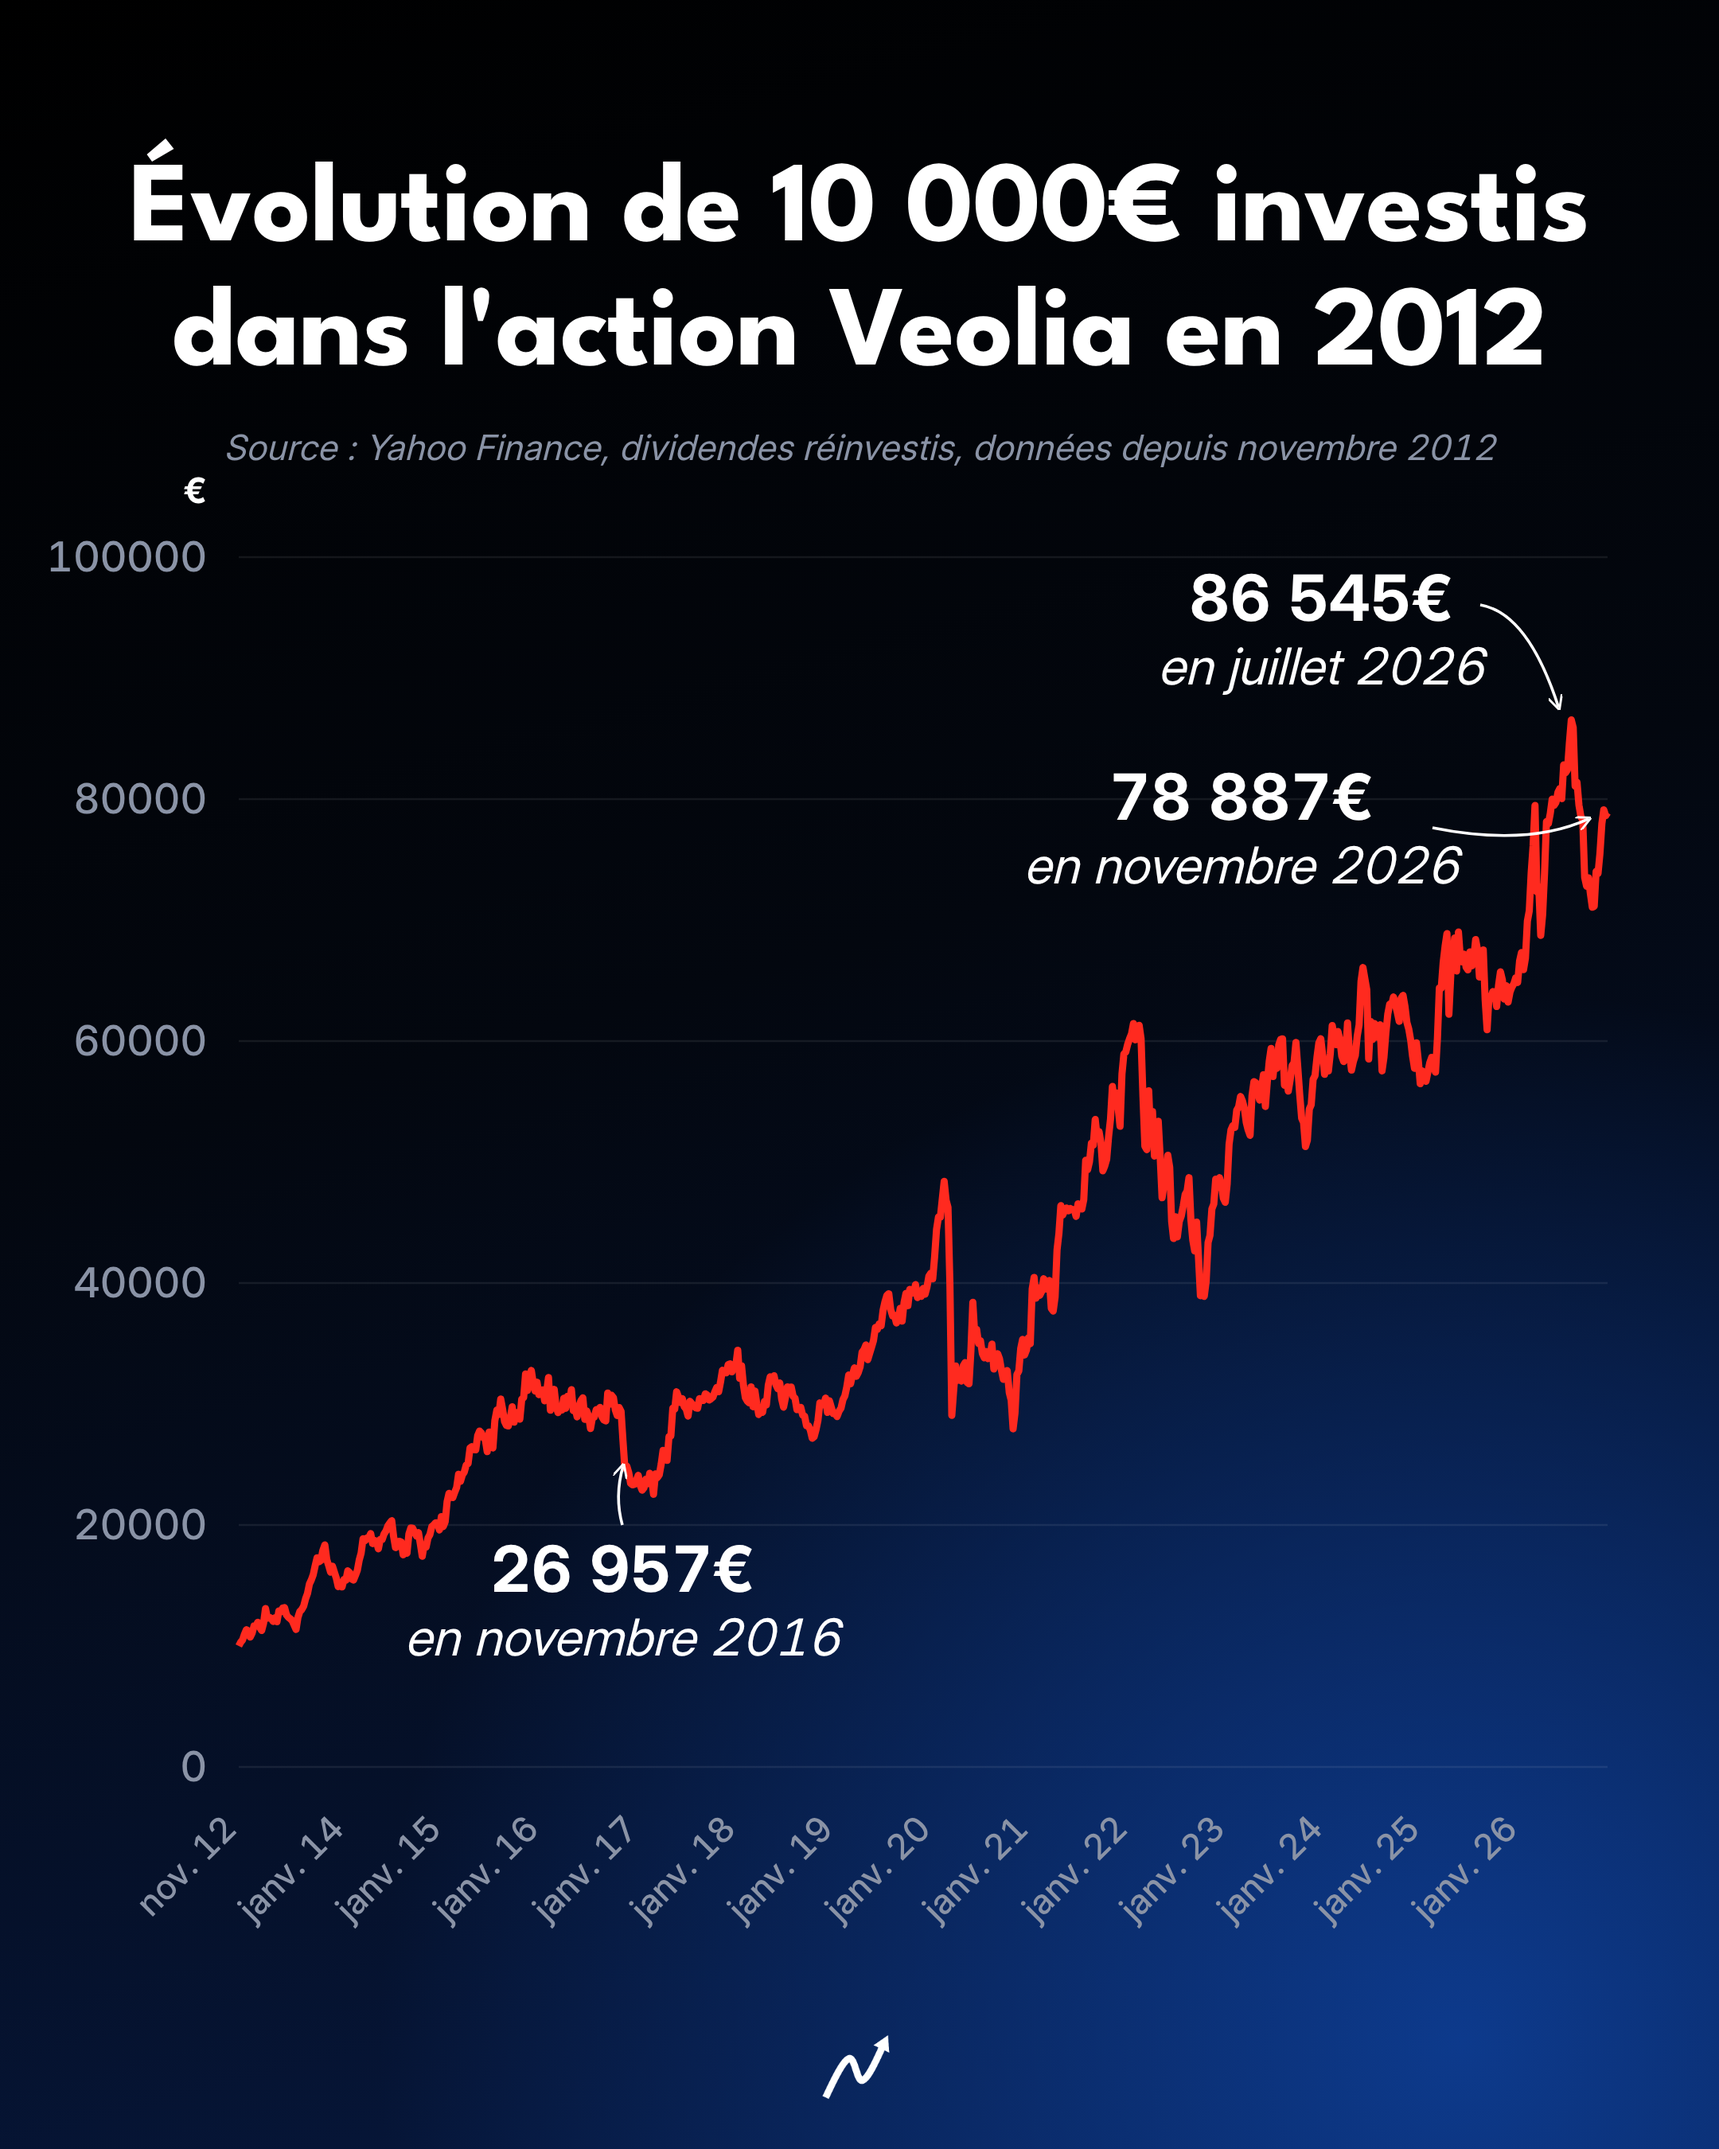
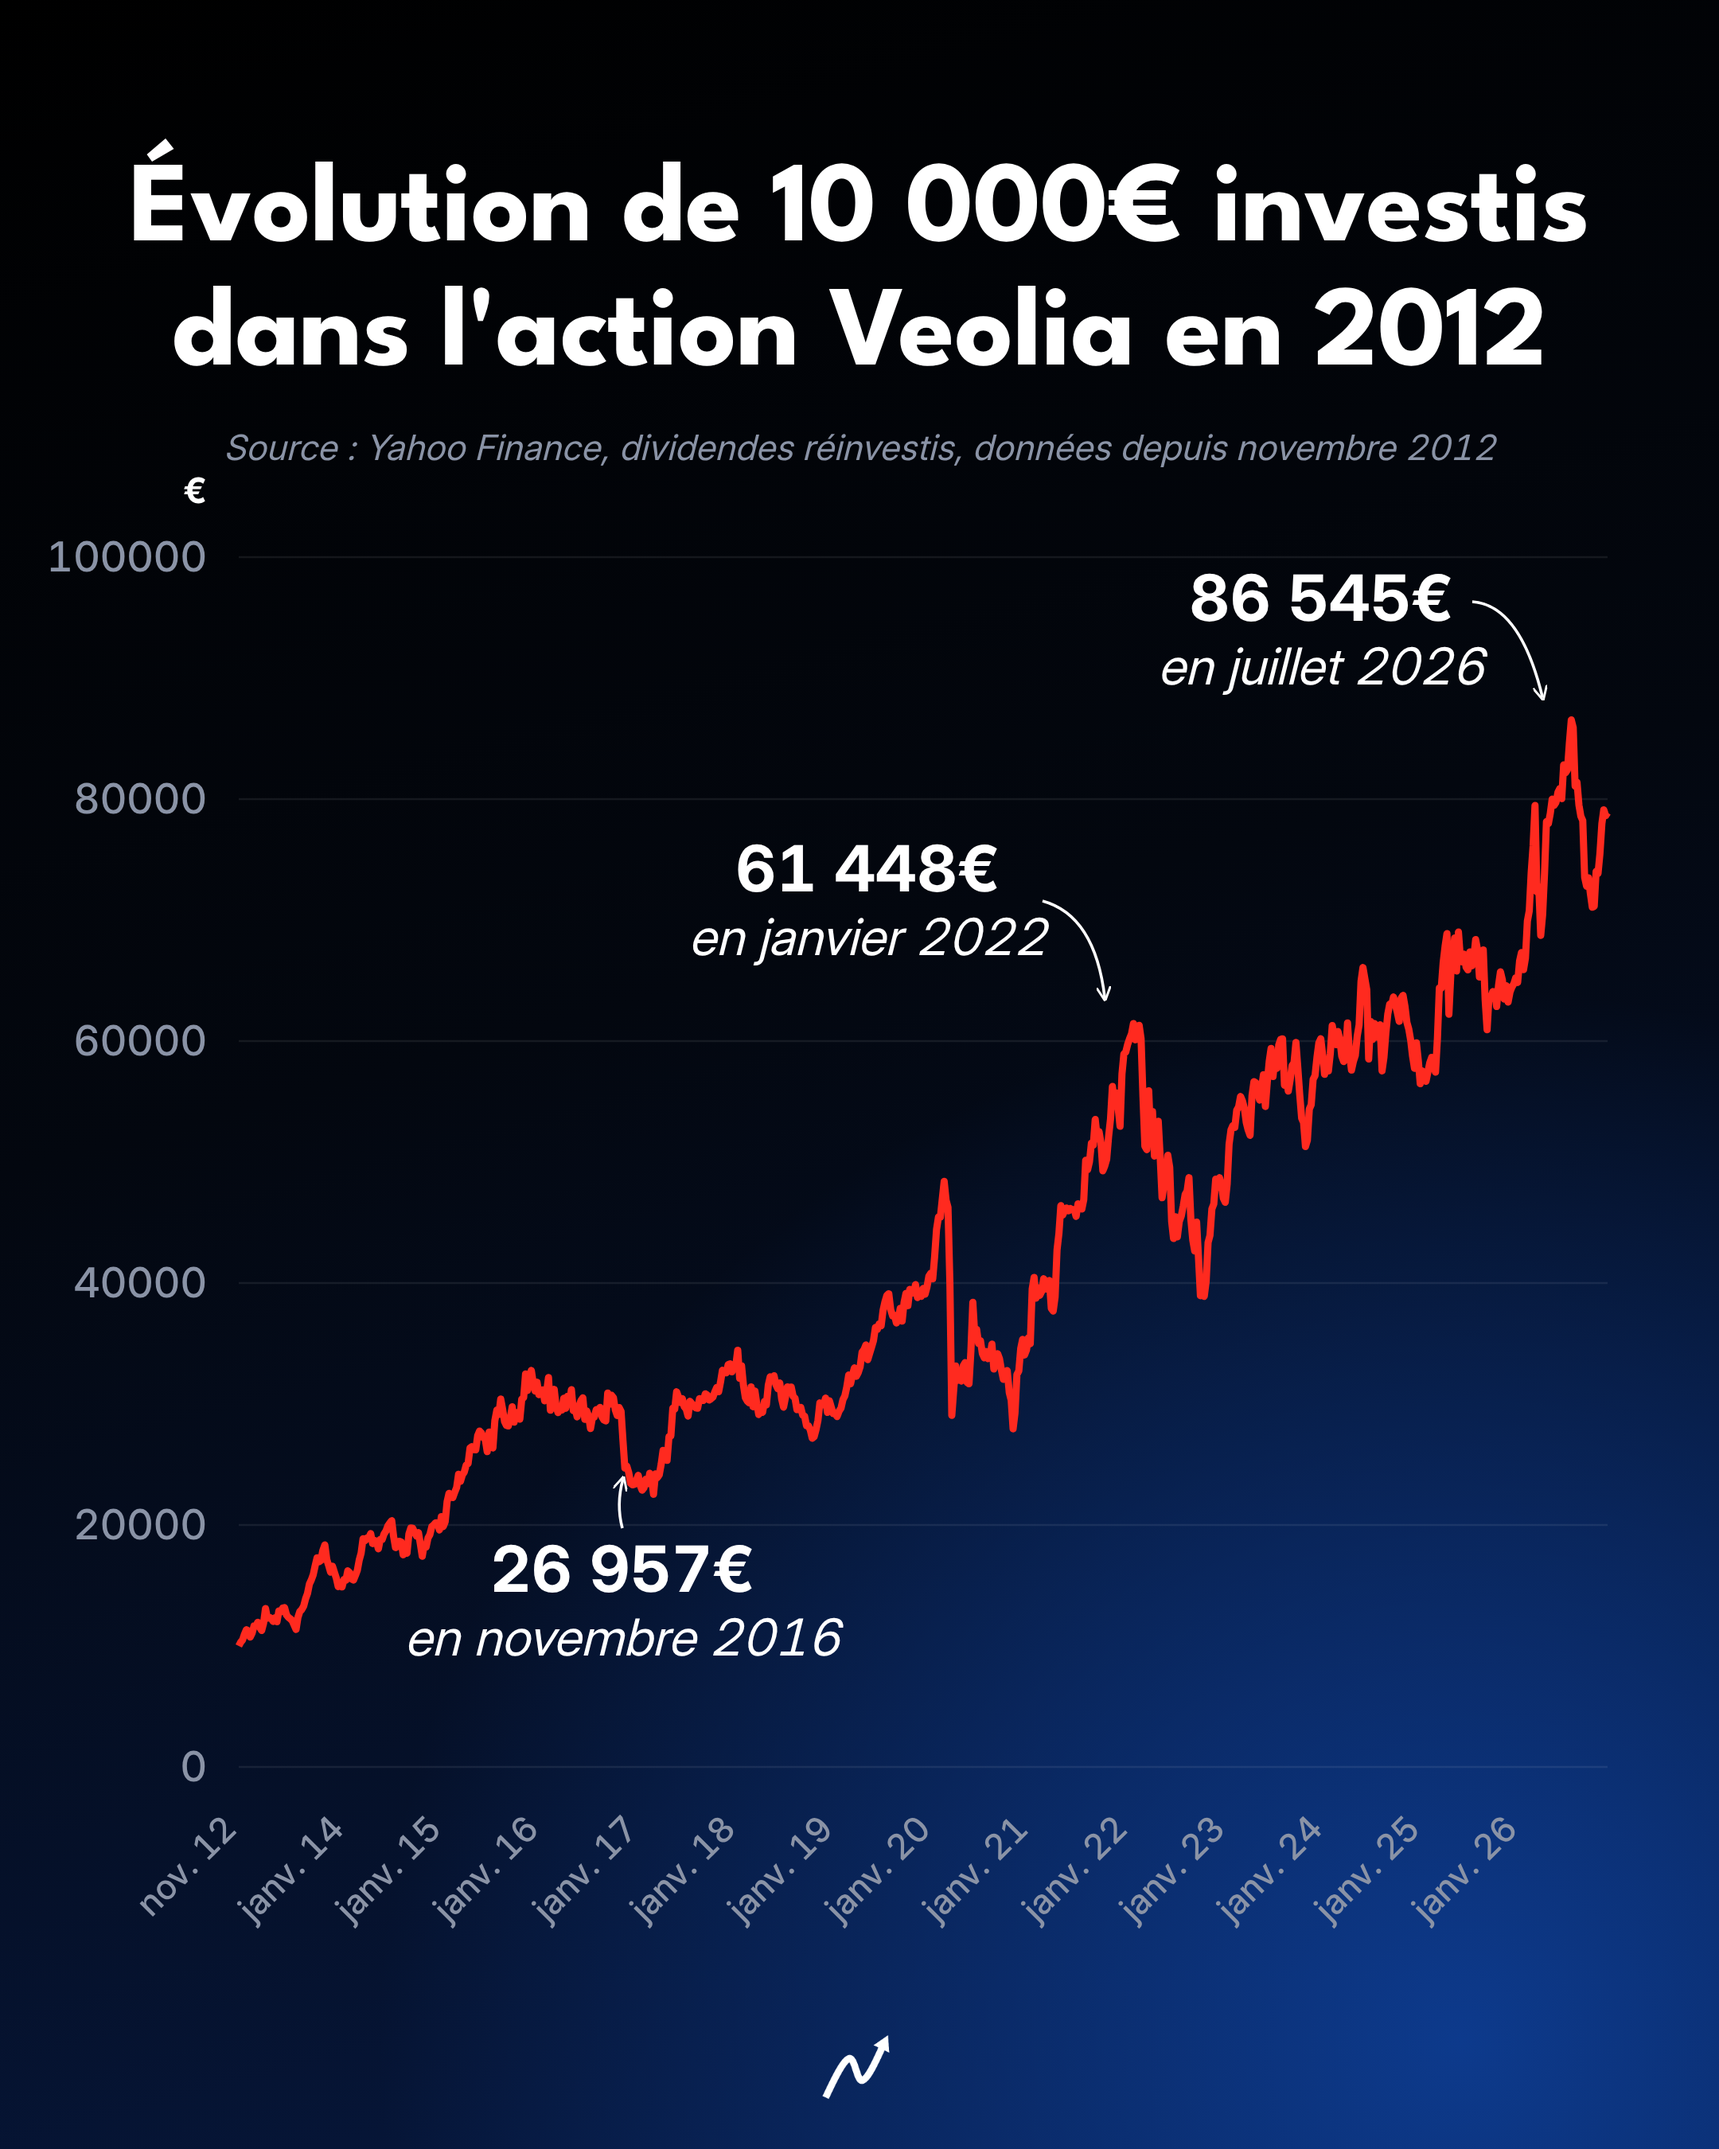
Carrousel Veolia : flèches qui ne touchent pas la courbe, annotation janvier 2022
Claude-Session: https://claude.ai/code/session_0172khLHKtjafTGZdmNpPSJZ

Changed region(s): [[0.4032, 0.3733, 0.6204, 0.4667], [0.6514, 0.3422, 0.8685, 0.4044], [0.8685, 0.28, 0.8995, 0.3111]]

diff --git a/carrousel-veolia/carrousel.html b/carrousel-veolia/carrousel.html
@@ -57,9 +57,9 @@
       el(g, "text", { x: tx, y: ty, "font-size": 40, fill: "#fff", "font-weight": 700, "text-anchor": "middle" }, val);
       el(g, "text", { x: tx, y: ty + 40, "font-size": 32, fill: "#fff", "font-weight": 400, "font-style": "italic", "text-anchor": "middle" }, when);
       el(g, "path", { d: "M" + cx[0] + " " + cx[1] + " Q" + cy[0] + " " + cy[1] + " " + (px + cy[2]) + " " + (py + cy[3]), fill: "none", stroke: "#fff", "stroke-width": 1.8, "marker-end": "url(#ah)" }); }
-    note("2016-11-03", "26 957€", "en novembre 2016", 391, 1000, [391, 958], [386, 940, 0, 16]);
-    note("2026-07-15", "86 545€", "en juillet 2026", 830, 390, [930, 380], [960, 385, -8, -8]);
-    note("2026-11-24", "78 887€", "en novembre 2026", 780, 515, [900, 520], [960, 532, -12, 4]);
+    note("2016-11-03", "26 957€", "en novembre 2016", 391, 1000, [391, 960], [387, 945, 0, 24]);
+    note("2026-07-15", "86 545€", "en juillet 2026", 830, 390, [925, 378], [955, 380, -18, -14]);
+    note("2022-01-20", "61 448€", "en janvier 2022", 545, 560, [655, 566], [688, 575, -18, -16]);
   })();
   var p = +(new URLSearchParams(location.search).get("p") || 1); document.getElementById("p" + p).style.display = "block";
 </script>
